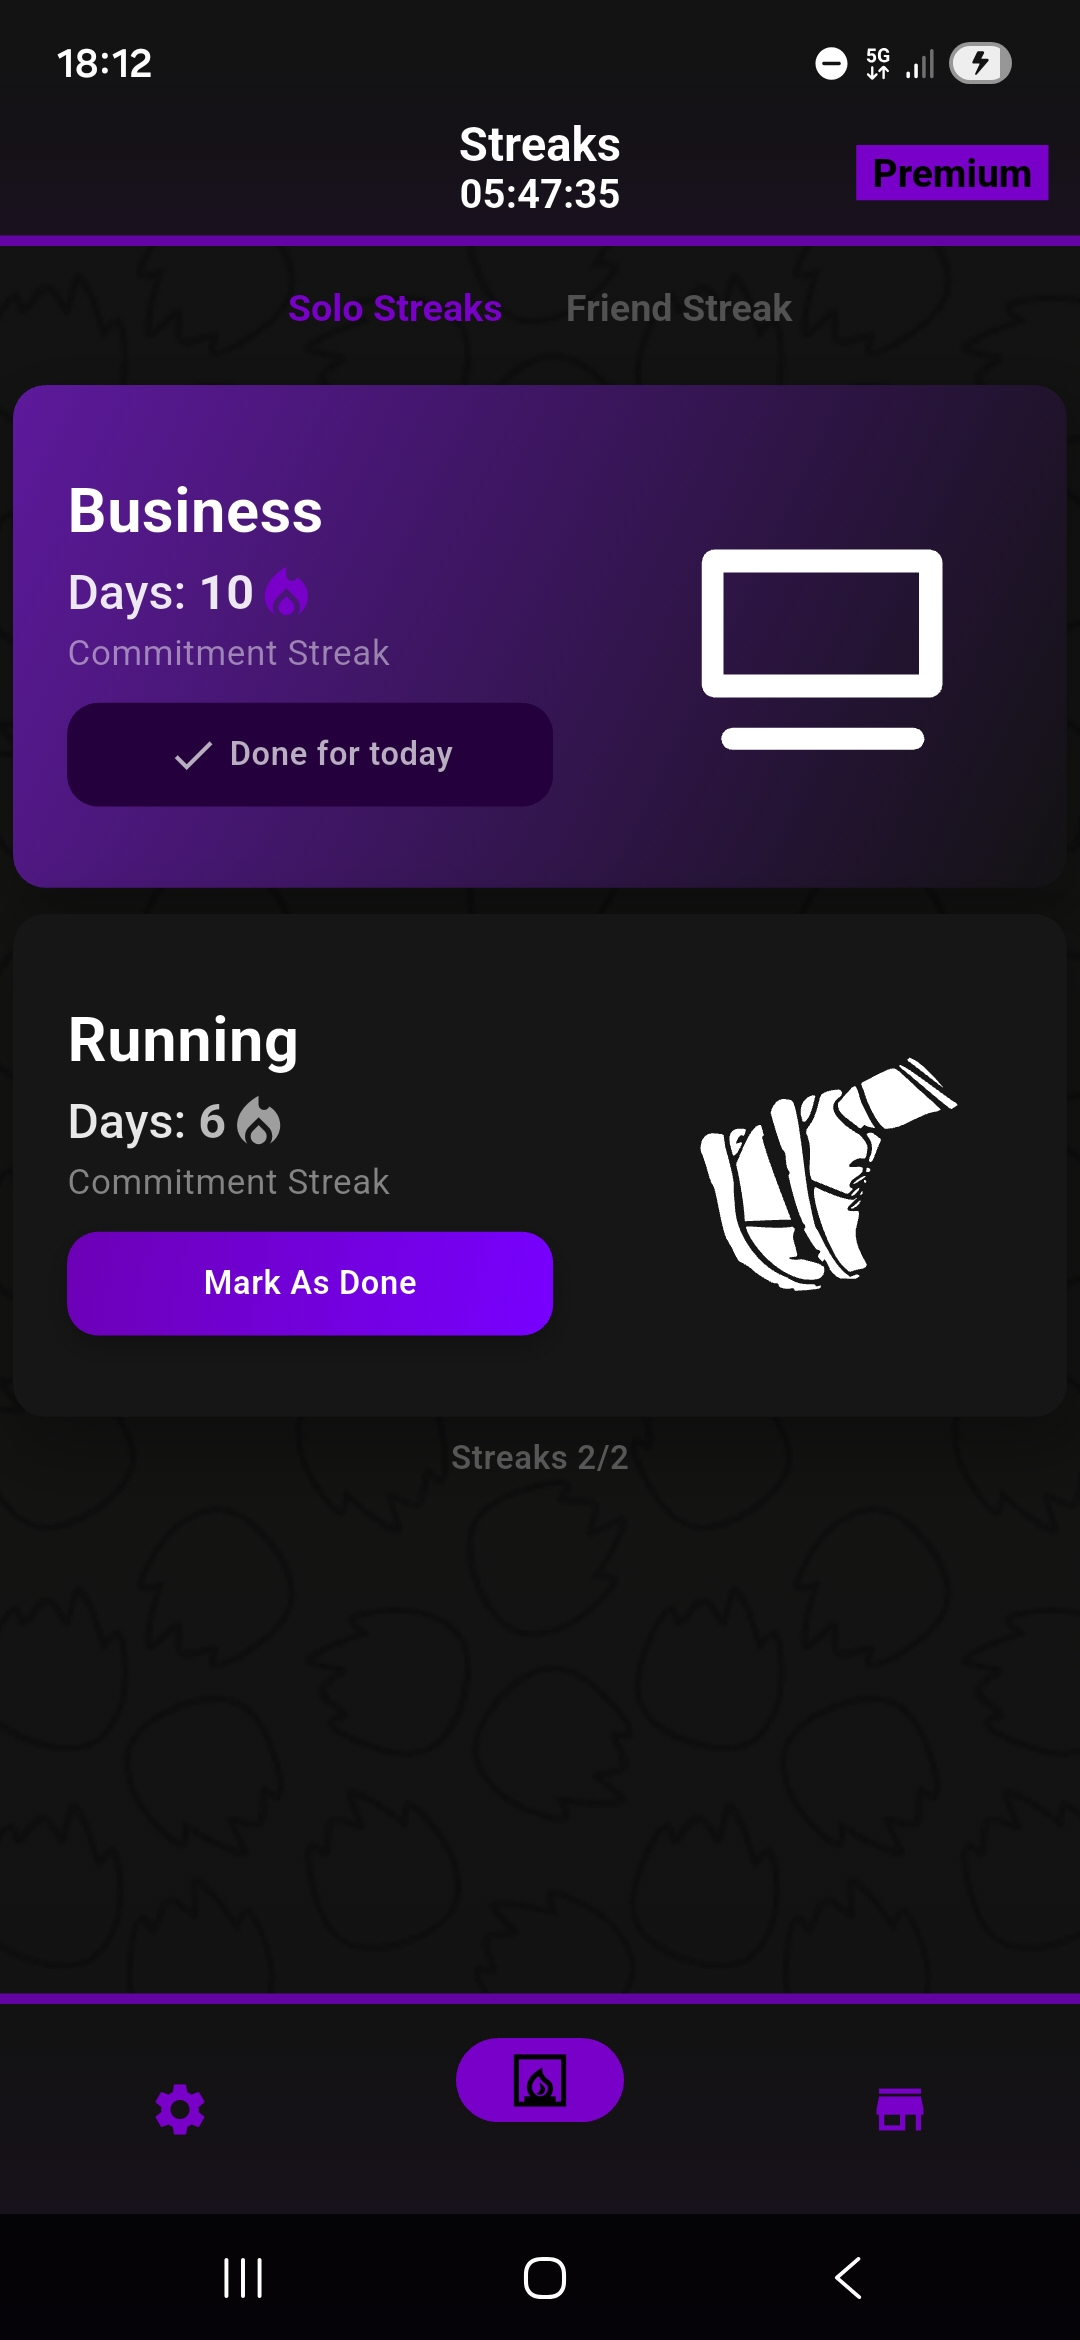
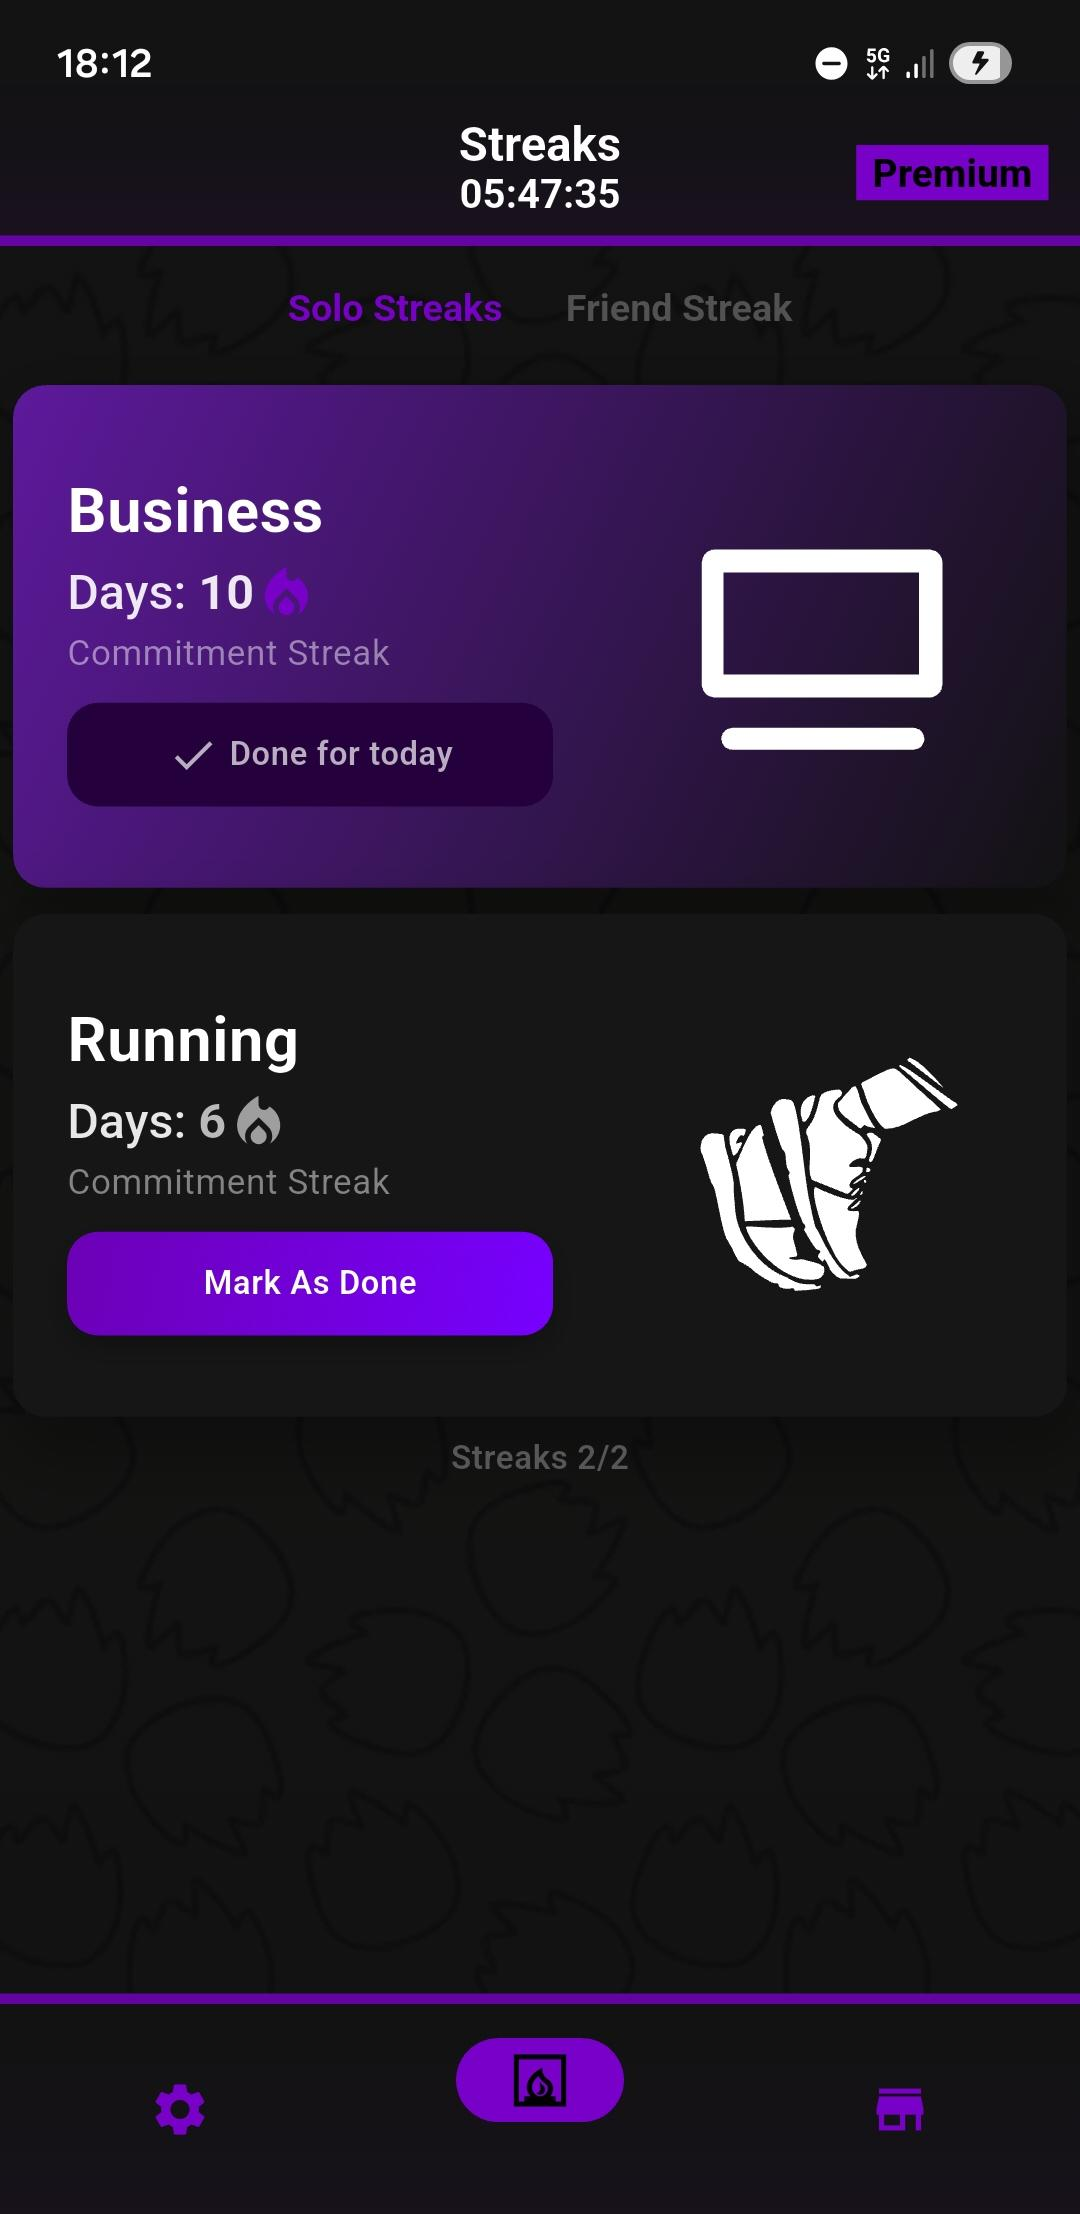
Changed from StreakUp to StreakRise

diff --git a/store/themes/script_subfold.py b/store/themes/script_subfold.py
@@ -1,0 +1,72 @@
+#!/usr/bin/env python3
+"""
+Recursively crops exactly 126 pixels off the BOTTOM of every image
+found in the script's own folder and all of its subfolders (all x,
+last 126 rows of y removed). Overwrites files in place.
+
+Usage (run it from anywhere, it works off its own location):
+    python3 crop_bottom.py
+    python3 crop_bottom.py --pixels 100        # custom amount
+    python3 crop_bottom.py --root /some/path   # walk a different folder instead
+
+Requires: pip install pillow --break-system-packages
+"""
+
+import argparse
+from pathlib import Path
+
+from PIL import Image
+
+EXTENSIONS = {".jpg", ".jpeg", ".png", ".bmp", ".tiff", ".tif", ".webp"}
+
+SCRIPT_DIR = Path(__file__).resolve().parent
+
+
+def crop_bottom_recursive(root: Path, pixels: int) -> None:
+    if not root.is_dir():
+        raise SystemExit(f"Not a folder: {root}")
+
+    # rglob walks the root and every subfolder beneath it
+    images = sorted(
+        p for p in root.rglob("*")
+        if p.is_file() and p.suffix.lower() in EXTENSIONS and p != Path(__file__).resolve()
+    )
+
+    if not images:
+        print(f"No images found under {root}")
+        return
+
+    done, skipped = 0, 0
+    for path in images:
+        try:
+            with Image.open(path) as img:
+                w, h = img.size
+                if h <= pixels:
+                    print(f"Skipping {path.relative_to(root)}: height {h}px <= {pixels}px crop")
+                    skipped += 1
+                    continue
+
+                cropped = img.crop((0, 0, w, h - pixels))
+                if path.suffix.lower() in (".jpg", ".jpeg") and cropped.mode in ("RGBA", "P"):
+                    cropped = cropped.convert("RGB")
+                cropped.save(path)
+                print(f"Cropped {path.relative_to(root)}: {w}x{h} -> {w}x{h - pixels}")
+                done += 1
+        except Exception as e:
+            print(f"Failed on {path.relative_to(root)}: {e}")
+            skipped += 1
+
+    print(f"\nDone. {done} cropped, {skipped} skipped.")
+
+
+if __name__ == "__main__":
+    parser = argparse.ArgumentParser(
+        description="Recursively crop the bottom N pixels off every image under a folder (default: the script's own folder)."
+    )
+    parser.add_argument("--root", type=Path, default=SCRIPT_DIR,
+                         help="Folder to walk (default: the folder this script is in)")
+    parser.add_argument("--pixels", type=int, default=126,
+                         help="Pixels to remove from the bottom (default: 126)")
+    args = parser.parse_args()
+
+    crop_bottom_recursive(args.root, args.pixels)
